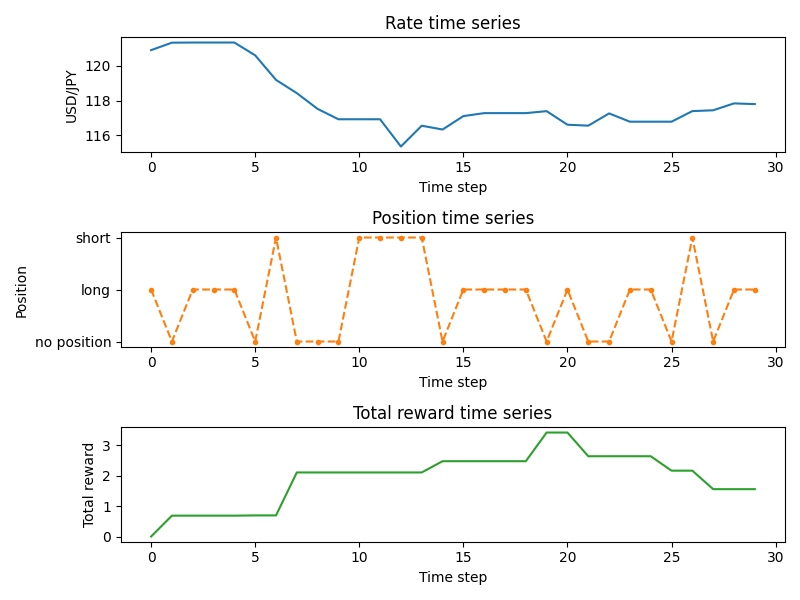
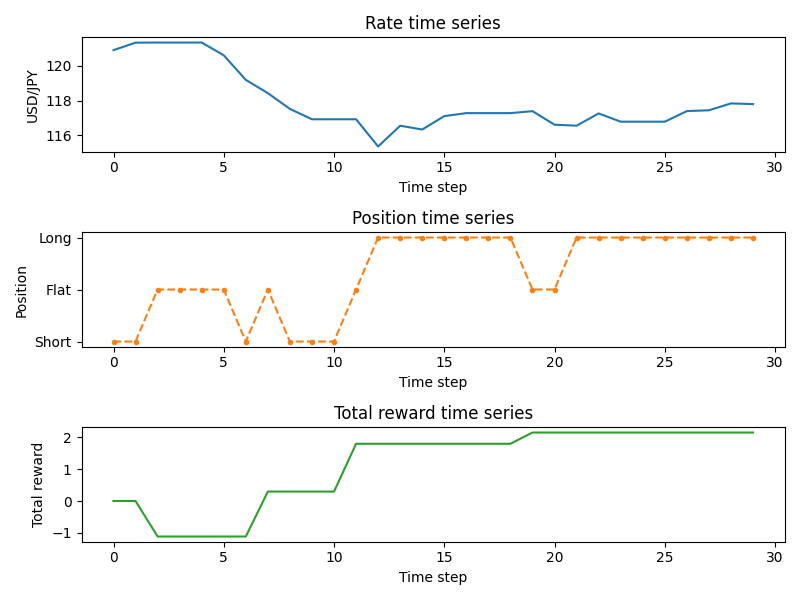
position state change and action dimensions from 3 to 4

diff --git a/environment/test_ForexEnv.py b/environment/test_ForexEnv.py
@@ -7,21 +7,26 @@ import matplotlib.pyplot as plt
 LENGTH = 30
 SEED = 0
 PATH_SAVEFIG_01 = '../image/forex_env_test.png'
+POSITION_STATE_DIM = 3
 
 
-def print_step(next_state, reward, done):
-    return print(f'Next state=[{next_state[0]:,.2f}, {next_state[1]}], '
-                 f'Reward={reward:,.2f}, Done={done}')
+def print_step(action, curr_state, next_state, reward, done):
+    return print(
+        f'Action={action}, '
+        f'Current state=[{curr_state[0]:,.2f}, {curr_state[1]}], '
+        f'Next state=[{next_state[0]:,.2f}, {next_state[1]}], '
+        f'Reward={reward:,.2f}, Done={done}'
+    )
 
 
 def main():
     # Test constructor
-    env = ForexEnv(episode_length=LENGTH)
+    env = ForexEnv(length=LENGTH)
     print('*** Test constructor ***')
     print(env)
     print('Size', env.size)
-    print('Episode length', env.episode_length)
-    print('*** Test constructor ***\n')
+    print('Length', env.length)
+    print()
 
     # Test class variables
     print('*** Test class variables ***')
@@ -32,49 +37,58 @@ def main():
 
     # Test set_seed method
     env.set_seed(seed_int=SEED)
+    print('*** Test set_seed ***')
+    print(env)
+    print('Seed', SEED)
+    print()
 
     # Test reset method
-    env.reset()
+    reset_state = env.reset()
     print('*** Test reset method ***')
     print(env)
-    print('*** Test reset method ***\n')
+    print('Reset state', reset_state)
+    print()
 
     # Test step method
-    # From no position, make long position
+    curr_state = reset_state
+    # Open short position
     action = 1
-    state, reward, done = env.step(action)
-    print('*** Test step method by making long position ***')
+    next_state, reward, done = env.step(action)
+    print('*** Test step method by opening short position ***')
     print(env)
-    print_step(state, reward, done)
+    print_step(action, curr_state, next_state, reward, done)
     print()
 
-    # From long position, exit
-    action = 0
-    state, reward, done = env.step(action)
-    print('*** Test step method by closing long position ***')
-    print(env)
-    print_step(state, reward, done)
-    print()
-
-    # From no position to short position
-    action = 2
-    state, reward, done = env.step(action)
-    print('*** Test step method by making short position ***')
-    print(env)
-    print_step(state, reward, done)
-    print()
-
-    # From short to no position
-    action = 0
-    state, reward, done = env.step(action)
+    # Close short position
+    curr_state = next_state
+    action = 3
+    next_state, reward, done = env.step(action)
     print('*** Test step method by closing short position ***')
     print(env)
-    print_step(state, reward, done)
+    print_step(action, curr_state, next_state, reward, done)
     print()
 
-    # Test iteration
-    print('*** Test iteration and done ***')
-    state = env.reset()
+    # Open long position
+    curr_state = next_state
+    action = 2
+    next_state, reward, done = env.step(action)
+    print('*** Test step method by opening long position ***')
+    print(env)
+    print_step(action, curr_state, next_state, reward, done)
+    print()
+
+    # Close long position
+    curr_state = next_state
+    action = 3
+    next_state, reward, done = env.step(action)
+    print('*** Test step method by closing long position ***')
+    print(env)
+    print_step(action, curr_state, next_state, reward, done)
+    print()
+
+    # Test done by iterating
+    print('*** Test done by iterating ***')
+    curr_state = env.reset()
     states = []
     done = False
     dones = [done]
@@ -83,7 +97,7 @@ def main():
     total_rewards = []
     total_reward = 0
     print('Initial environment', env)
-    print('State', state)
+    print('Initial state', curr_state)
     print()
     while not done:
 
@@ -93,7 +107,7 @@ def main():
         # Get next state and reward
         next_state, reward, done = env.step(action)
         print(env)
-        print_step(next_state, reward, done)
+        print_step(action, curr_state, next_state, reward, done)
         print()
 
         # Accumulate reward
@@ -105,6 +119,9 @@ def main():
         dones.append(done)
         total_rewards.append(total_reward)
         actions.append(action)
+
+        # Iterate state
+        curr_state = next_state
 
     # Visualize
     # print(states)
@@ -128,7 +145,7 @@ def main():
     plt.title('Position time series')
     plt.xlabel('Time step')
     plt.ylabel('Position')
-    plt.yticks(range(0, env.num_actions), ['no position', 'long', 'short'])
+    plt.yticks(range(0, POSITION_STATE_DIM), ['Short', 'Flat', 'Long'])
     plt.tight_layout()
     # plt.show()
 

diff --git a/environment/ForexEnv.py b/environment/ForexEnv.py
@@ -1,20 +1,19 @@
 """
 State
-- rate
-- position, 0: no position, 1: long, 2: short
+- Rate
+- Position
+  - 0: Short
+  - 1: Flat
+  - 2: Long
 
 Action
-- long, short, do nothing
-  - If currently the agent has a long position, only short or do nothing are
-    allowed.
+- 0: Do nothing
+- 1: Open short
+- 2: Open long
+- 3: Close
 
-Necessary method
-- set seed
-- reset
-- step
-- state space
-- action space
-- make
+Author: Yuki Kitayama
+Date: 2020-10-25
 """
 import numpy as np
 import pickle
@@ -28,20 +27,20 @@ class ForexEnv:
     data = pickle.load(open(PATH_01, 'rb'))
     size = len(data)
     num_states = 2
-    num_actions = 3
+    num_actions = 4
 
-    def __init__(self, episode_length):
+    def __init__(self, length):
         # Instance variable
         self.index = 0
-        self.episode_length = episode_length
-        self.counter = 0
-        self.position = 0
+        self.length = length
+        self.time = 0
+        self.position = 1
         self.rate = 0
 
     # String representation for debugging
     def __str__(self):
         return ('ForexEnv('
-                + 'counter=' + str(self.counter)
+                + 'time=' + str(self.time)
                 + ', position=' + str(self.position)
                 + ', rate=' + str(round(self.rate, 2))
                 + ', index=' + str(self.index)
@@ -50,41 +49,46 @@ class ForexEnv:
     def set_seed(self, seed_int):
         np.random.seed(seed_int)
 
+
     def step(self, action):
         # Current rate
-        curr_rate = self.data[self.index + self.counter]
+        curr_rate = self.data[self.index + self.time]
 
         # Next rate
-        self.counter += 1
-        next_rate = self.data[self.index + self.counter]
+        self.time += 1
+        next_rate = self.data[self.index + self.time]
 
         # Done
-        if self.counter < self.episode_length:
+        if self.time < self.length:
             done = False
         else:
             done = True
 
-        # Reward, position, position rate
-        if action == self.position:
+        # Reward, position, rate
+        # Do nothing
+        if action == 0:
             reward = 0
-        # Make position
-        elif self.position == 0 and (action == 1 or action == 2):
+            # No update position and rate
+        # Open short position
+        elif self.position == 1 and action == 1:
             reward = 0
-            self.position = action
+            self.position = 0
             self.rate = curr_rate
-        # Close long position
-        elif self.position == 1 and action == 0:
-            reward = curr_rate - self.rate
-            self.position = 0
-            self.rate = 0
-        # Close short position
-        elif self.position == 2 and action == 0:
-            reward = self.rate - curr_rate
-            self.position = 0
-            self.rate = 0
-        # Not allowed action
-        elif (self.position == 1 and action == 2) or (self.position == 2 and action == 1):
+        # Open long position
+        elif self.position == 1 and action == 2:
             reward = 0
+            self.position = 2
+            self.rate = curr_rate
+        # Close short position
+        elif self.position == 0 and action == 3:
+            reward = self.rate - curr_rate
+            self.position = 1
+            self.rate = 0
+        # Close long position
+        elif self.position == 2 and action == 3:
+            reward = curr_rate - self.rate
+            self.position = 1
+            self.rate = 0
         else:
             reward = 0
 
@@ -92,9 +96,9 @@ class ForexEnv:
 
     def reset(self):
         # Randomly initialize beginning index
-        index = np.random.randint(low=0, high=(self.size - self.episode_length))
+        index = np.random.choice(self.size - self.length)
         self.index = index
-        self.counter = 0
-        self.position = 0
+        self.time = 0
+        self.position = 1
         self.rate = 0
-        return self.data[self.index]
+        return self.data[self.index], self.position
